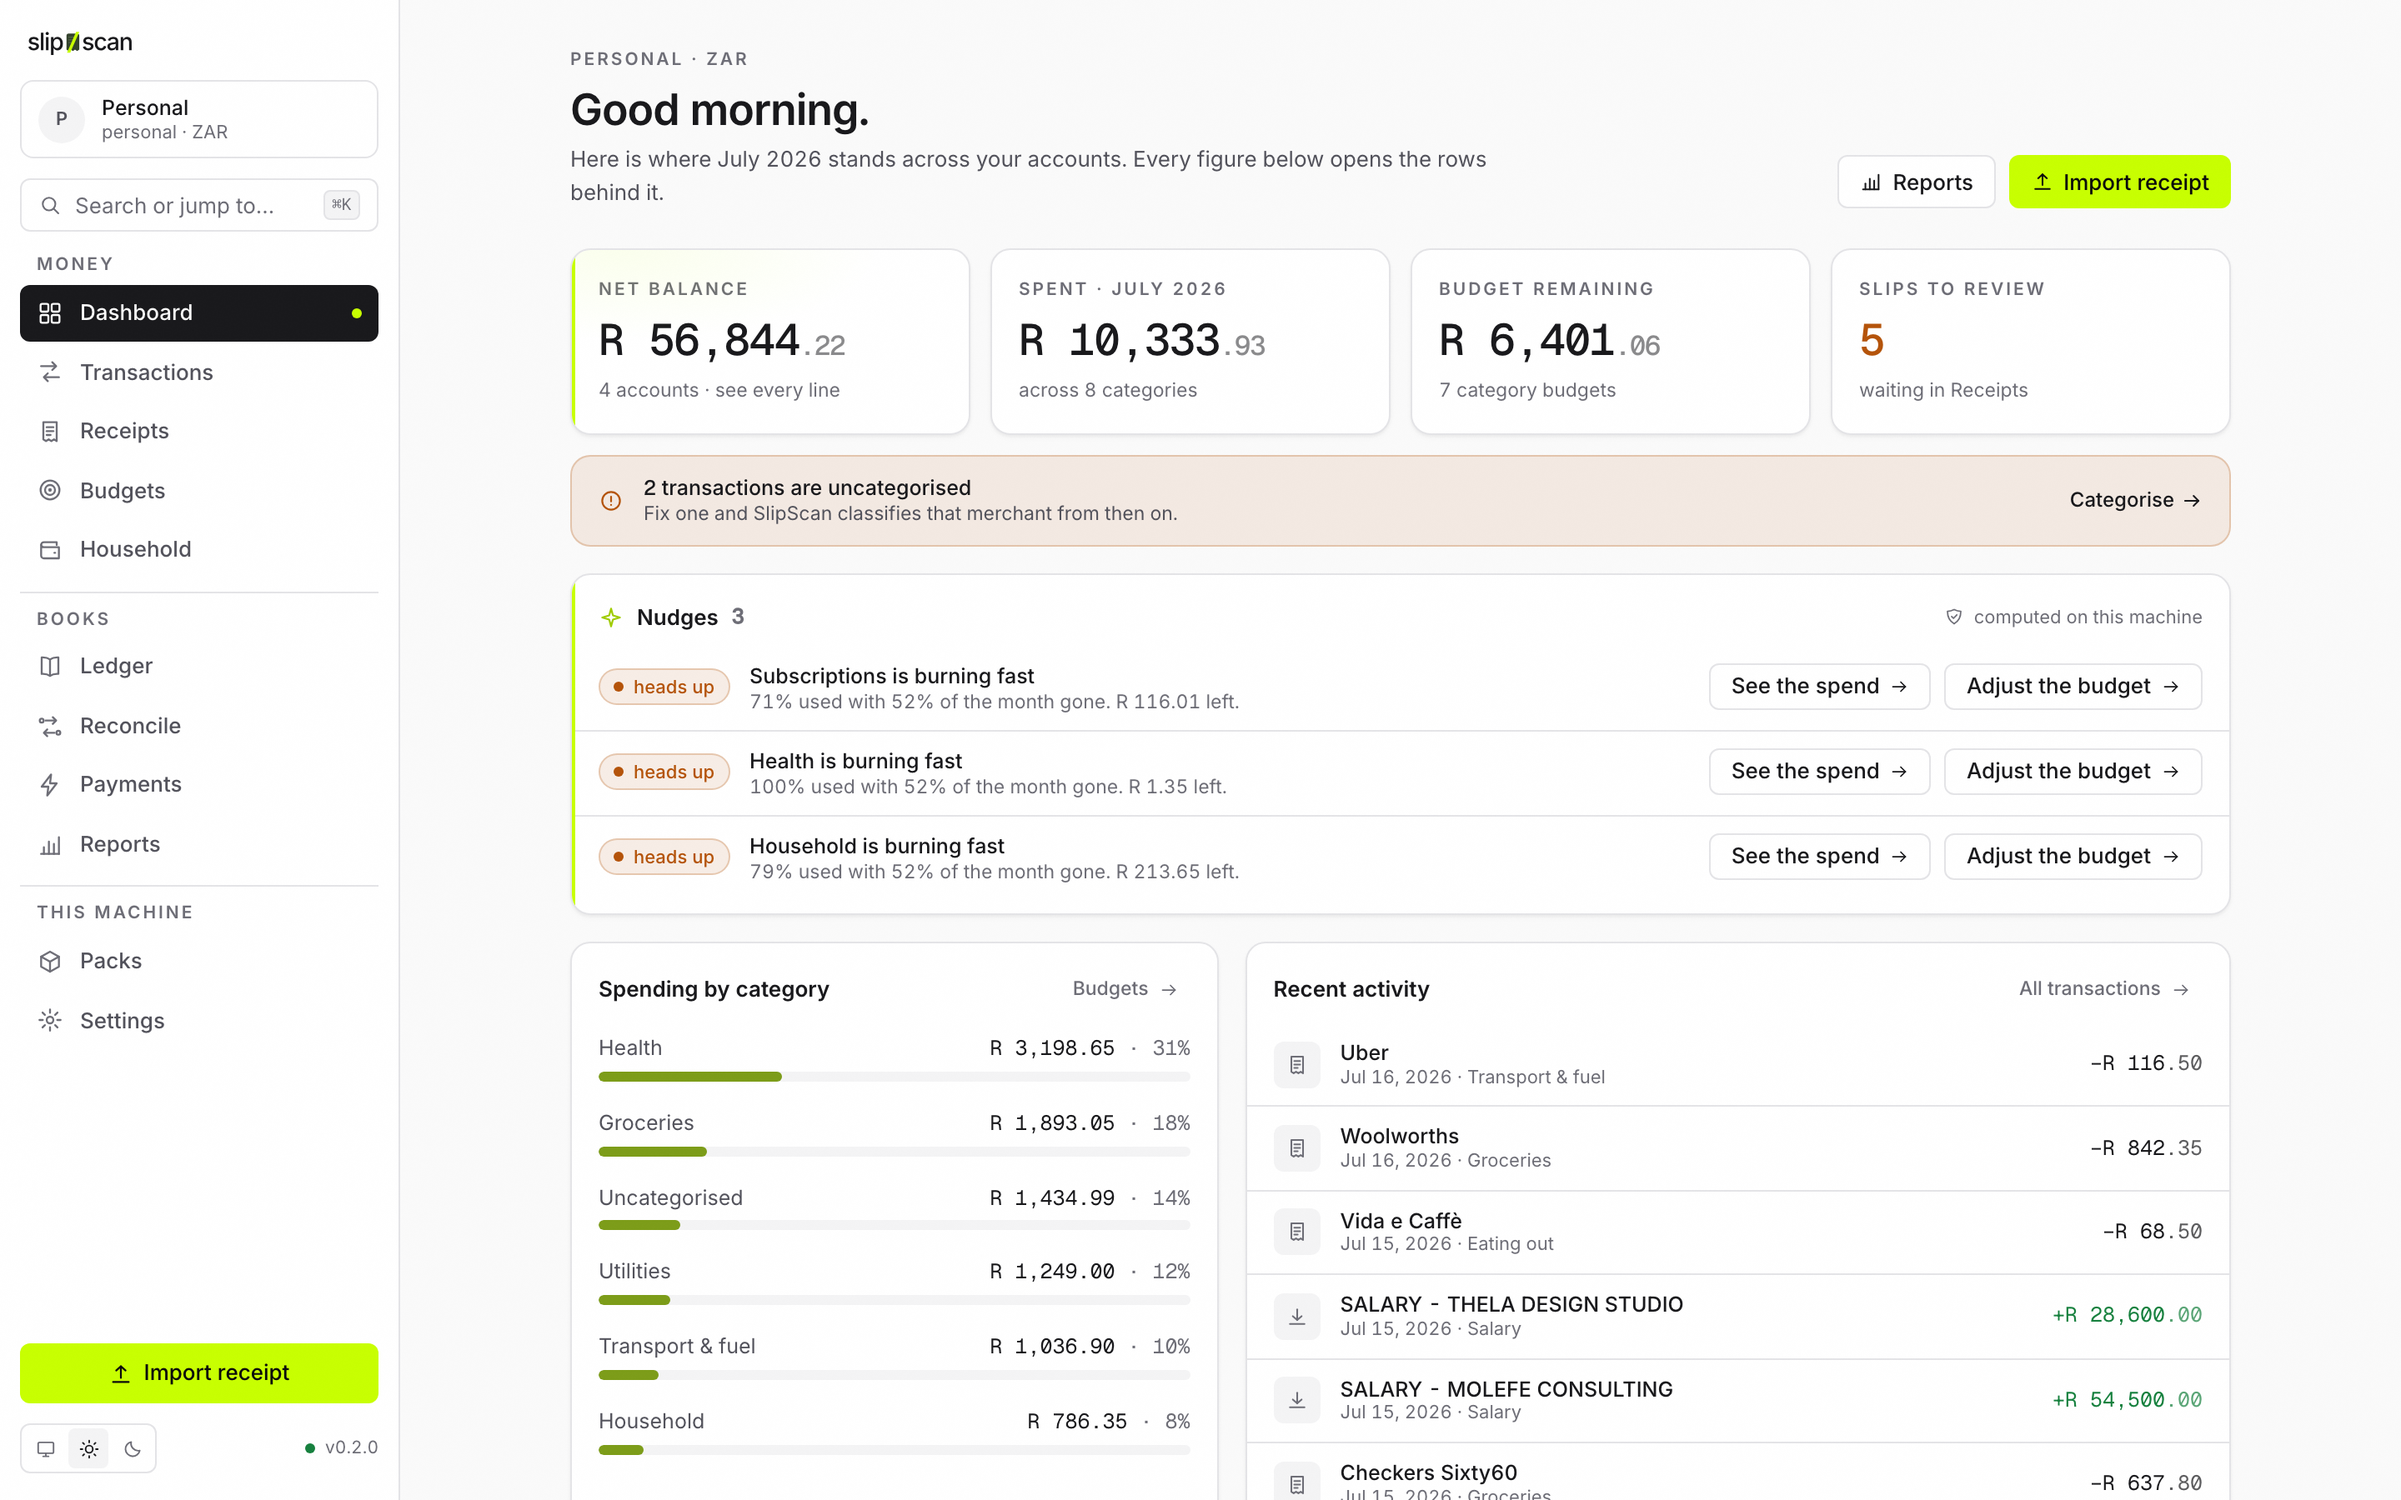
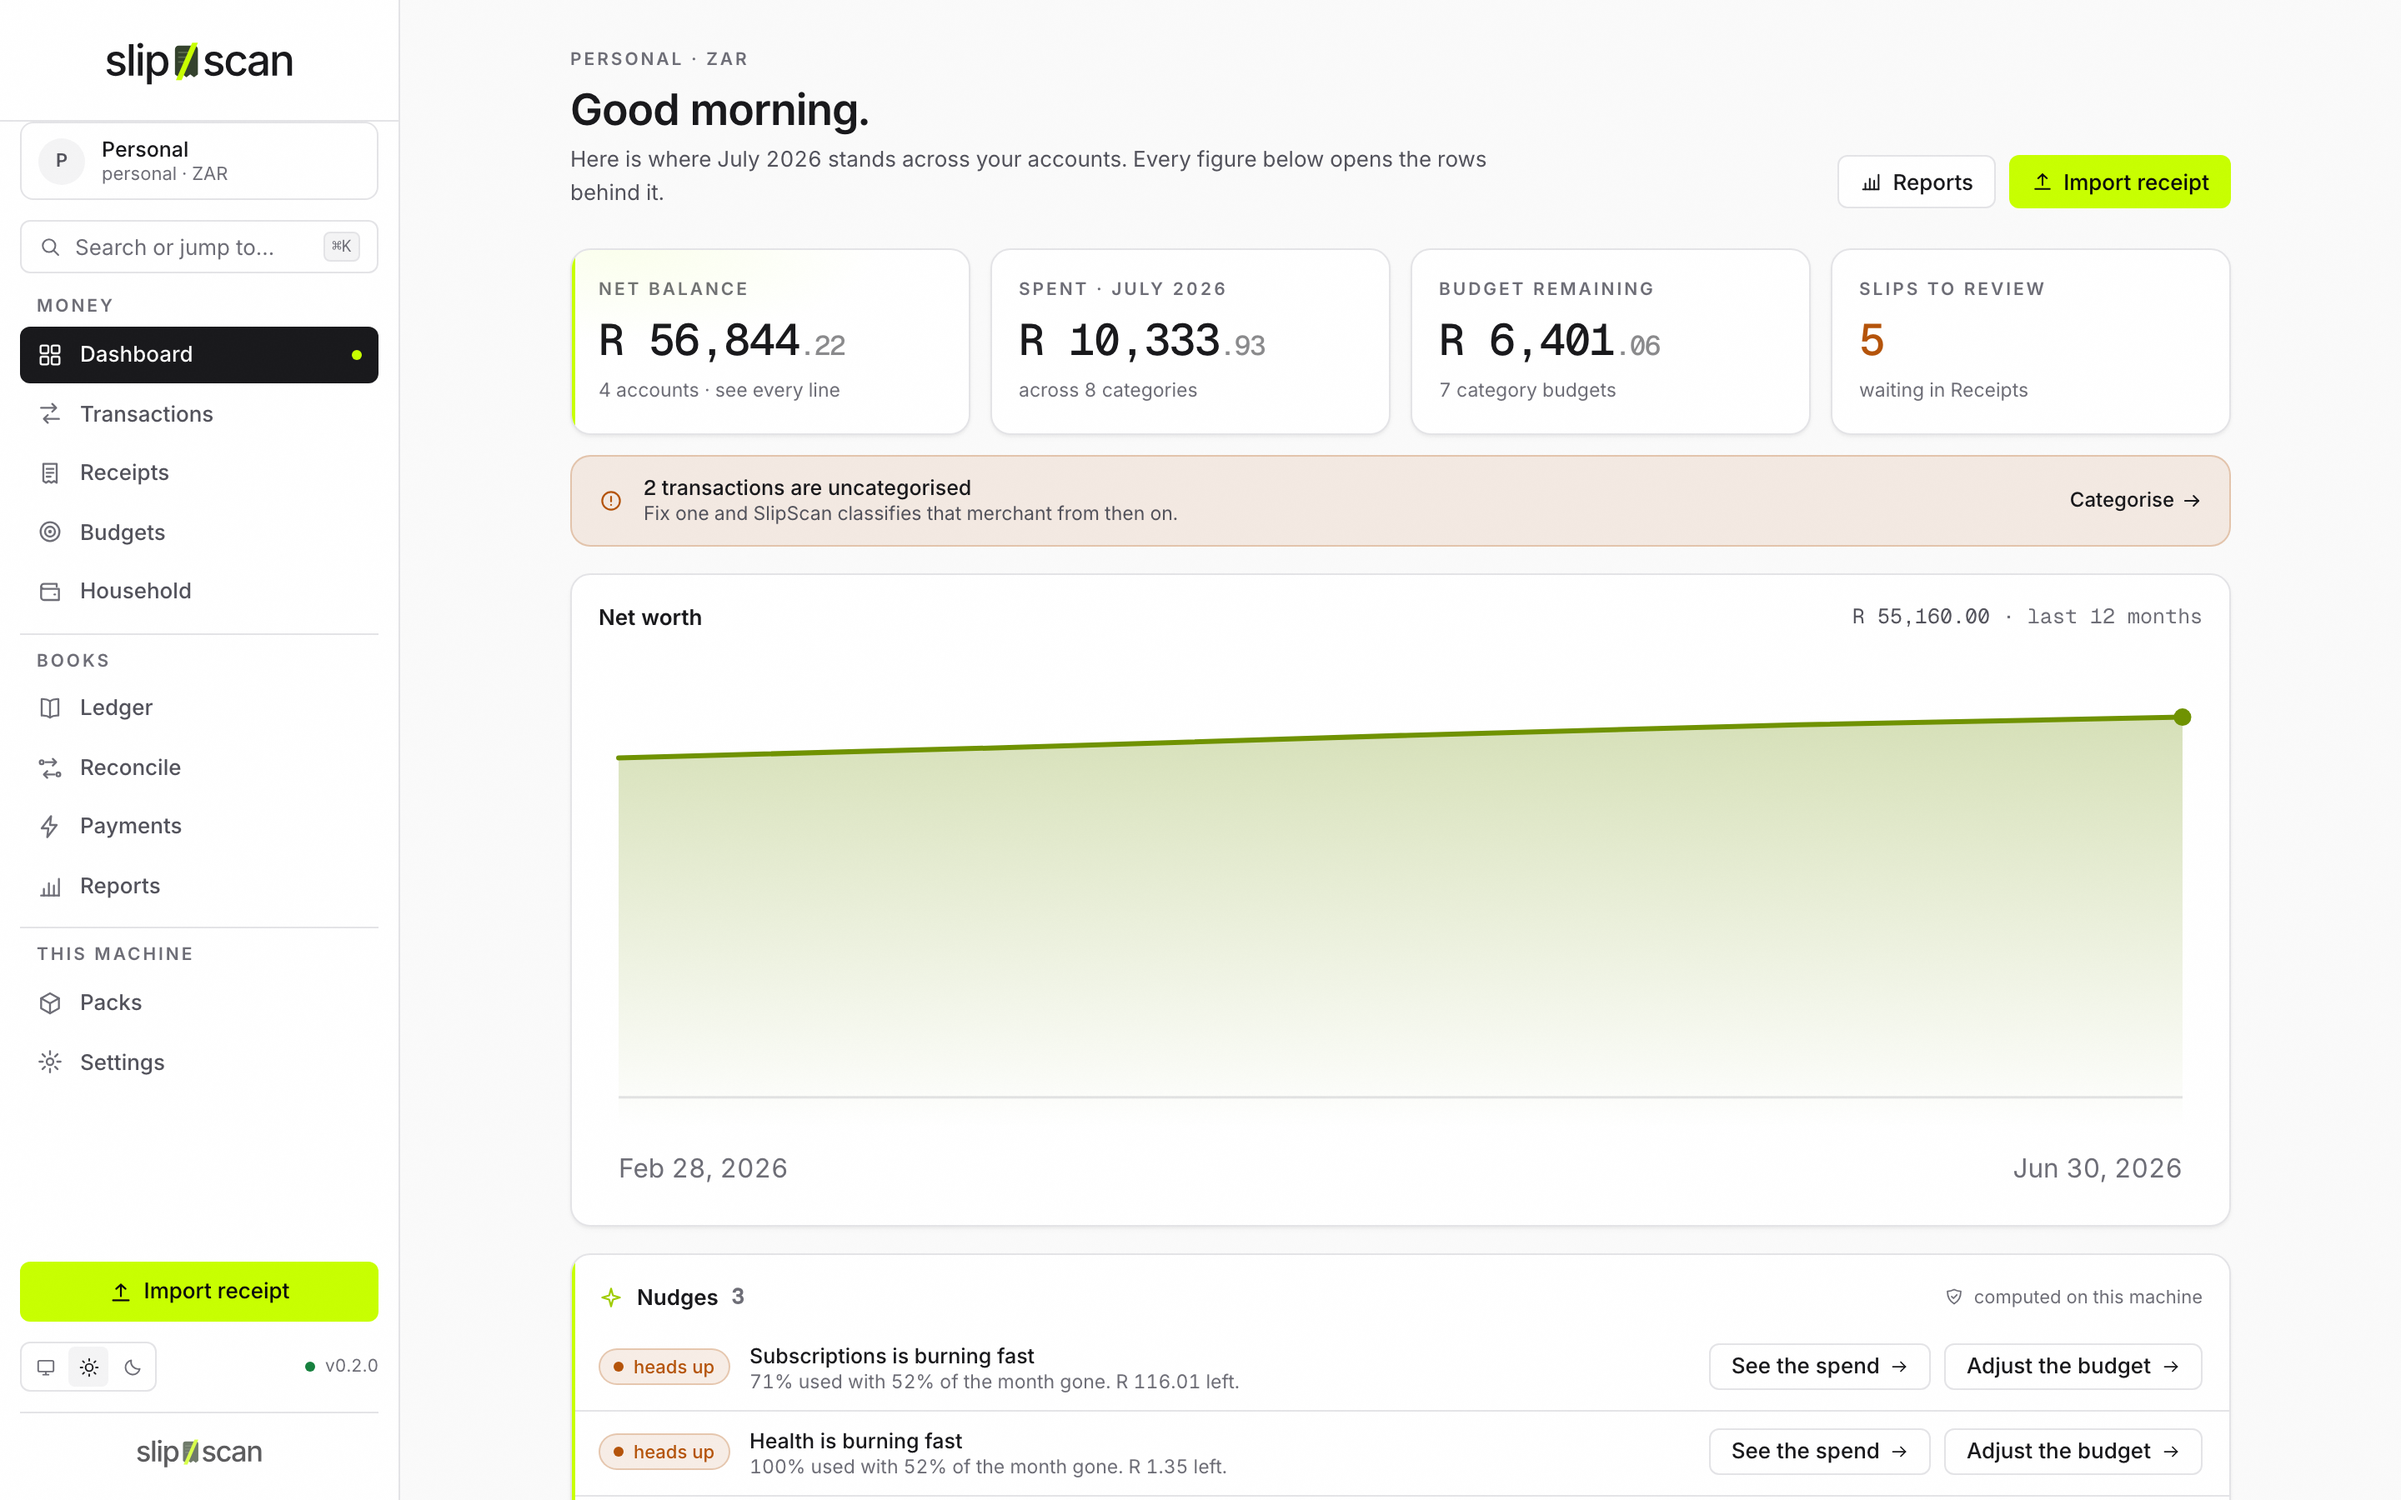
desktop: give the shell wordmark real presence, top and bottom
The sidebar brand mark was easy to miss — a 20px wordmark left-aligned
under sparse padding, with nothing echoing it anywhere else in the
shell. Enlarge and centre it (h-5→h-9, size-8→size-9 icon mark) and
state the brand band as a distinct region with a hairline, so it reads
as the app's top bar rather than an afterthought above the nav.

Add a matching, quieter wordmark signature to the footer (h-6,
opacity-70, decorative/aria-hidden, expanded-rail only) so the shell
is bookended the way a trusted desktop app's chrome usually is,
without repeating the accessible name or cluttering the 56px icon
rail where there's no room to say it twice.

Verified: svelte-check 0 errors, vitest 283/283, `vite build` clean,
Playwright 38/38 including the shell accessibility suite (focus-ring
tab order still lands skip-link → palette-trigger → the 11 nav links
unchanged, since the added marks are non-interactive). Screenshots at
1440px (both themes), 760/1100/1520px (rail collapse), and 390px
reviewed by hand — regenerated the committed gallery in
docs/screenshots/ and assets/screens/ to match.

diff --git a/apps/desktop/src/lib/components/Sidebar.svelte b/apps/desktop/src/lib/components/Sidebar.svelte
@@ -67,9 +67,12 @@
   class="flex w-14 shrink-0 flex-col border-r border-line bg-panel rail:w-60"
   aria-label="Primary"
 >
-  <!-- brand -->
+  <!-- brand: this is the shell's top bar, and the one place the product
+       gets to say its own name — sized and centred to read as confidently
+       as the rest of the chrome is quiet. A hairline states it as a
+       distinct band, mirroring the one above the footer signature below. -->
   <div
-    class="flex items-center justify-center gap-2.5 px-0 pt-4 pb-3 rail:justify-start rail:px-4"
+    class="flex items-center justify-center border-b border-line px-0 pt-5 pb-4 rail:px-4"
   >
     <!--
       One mark, never two. The mark IS the slash: the wordmark lockup already
@@ -78,16 +81,16 @@
       the two are mutually exclusive.
     -->
     <span
-      class="inline-flex size-8 shrink-0 rounded-[7px] ring-1 ring-line dark:ring-ink-700 rail:hidden [&>svg]:size-8"
+      class="inline-flex size-9 shrink-0 rounded-[8px] ring-1 ring-line dark:ring-ink-700 rail:hidden [&>svg]:size-9"
     >
       {@html logoMark}
     </span>
     <span class="hidden rail:inline-flex">
-      <img src={wordmarkLight} alt="slip/scan" class="h-5 w-auto dark:hidden" />
+      <img src={wordmarkLight} alt="slip/scan" class="h-9 w-auto dark:hidden" />
       <img
         src={wordmarkDark}
         alt="slip/scan"
-        class="hidden h-5 w-auto dark:block"
+        class="hidden h-9 w-auto dark:block"
       />
     </span>
   </div>
@@ -235,6 +238,26 @@
         ></span>
         {health ? `v${health.version}` : "…"}{mockData ? " · mock" : ""}
       </span>
+    </div>
+
+    <!-- footer signature: the same wordmark that opens the rail, quieter and
+         centred, closing the shell the way the brand band above opens it.
+         Decorative — the accessible name already lives on the mark up top —
+         and expanded-rail only, the same gate as the version chip above it,
+         since there is no room to say it twice in a 56px icon rail. -->
+    <div class="hidden items-center justify-center border-t border-line pt-3 rail:flex">
+      <img
+        src={wordmarkLight}
+        alt=""
+        aria-hidden="true"
+        class="h-6 w-auto opacity-70 dark:hidden"
+      />
+      <img
+        src={wordmarkDark}
+        alt=""
+        aria-hidden="true"
+        class="hidden h-6 w-auto opacity-70 dark:block"
+      />
     </div>
   </div>
 </aside>
